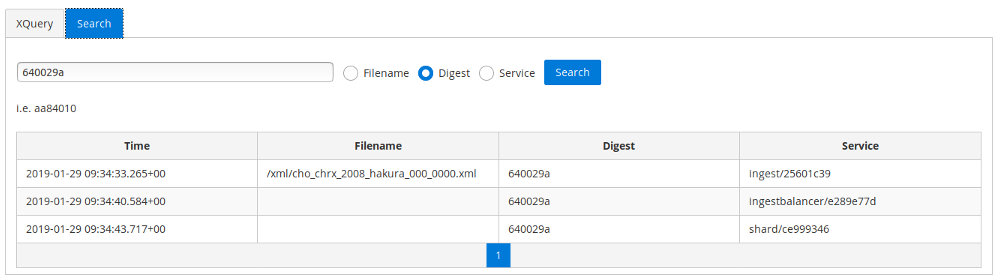
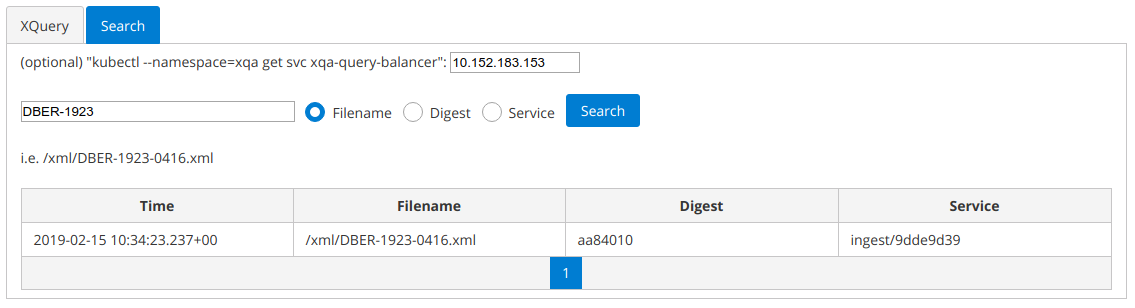
k8s support

Changed region(s): [[0.0, 0.1429, 1.0, 1.0], [0.0, 0.0, 0.994, 0.4286]]

diff --git a/src/app/search/search.component.ts b/src/app/search/search.component.ts
@@ -2,6 +2,7 @@ import { Component, OnInit } from '@angular/core';
 
 import { SearchResponse } from '../domain/search.response';
 import { SearchService } from '../service/search.service';
+import { AppComponent } from '../app.component';
 
 @Component({
   selector: 'app-search',
@@ -15,7 +16,7 @@ export class SearchComponent implements OnInit {
   error: string;
   searchResponses: SearchResponse[];
 
-  constructor(private searchService: SearchService) {
+  constructor(private searchService: SearchService, public appComponent: AppComponent) {
     this.searchValue = '';
   }
 
@@ -23,7 +24,7 @@ export class SearchComponent implements OnInit {
     console.log(this.searchSpace);
     this.error = '';
     this.searchResponses = [];
-    this.searchService.doSearch(this.searchSpace, this.searchValue)
+    this.searchService.doSearch(this.searchSpace, this.searchValue, this.appComponent.k8sIP)
       .subscribe(
         searchResponses => this.searchResponses = searchResponses['searchResponse'],
         error => this.error = error

diff --git a/src/app/xquery/xquery.component.ts b/src/app/xquery/xquery.component.ts
@@ -1,6 +1,7 @@
 import { Component, OnInit } from '@angular/core';
 
 import { XQueryService } from '../service/xquery.service';
+import { AppComponent } from '../app.component';
 
 
 @Component({
@@ -9,10 +10,11 @@ import { XQueryService } from '../service/xquery.service';
   styleUrls: ['./xquery.component.css']
 })
 export class XQueryComponent implements OnInit {
+  k8sIP: string;
   xquery: string;
   materialisedResponse: string;
 
-  constructor(private xqueryService: XQueryService) {
+  constructor(private xqueryService: XQueryService, public appComponent: AppComponent) {
   }
 
   ngOnInit() {
@@ -25,7 +27,7 @@ export class XQueryComponent implements OnInit {
   }
 
   run() {
-    this.xqueryService.doRun(this.xquery)
+    this.xqueryService.doRun(this.xquery, this.appComponent.k8sIP)
     .subscribe(
       materialisedResponse => this.materialisedResponse = materialisedResponse['xqueryResponse'],
       error => this.materialisedResponse = error

diff --git a/src/app/service/search.service.ts b/src/app/service/search.service.ts
@@ -12,8 +12,13 @@ export class SearchService extends CommonService {
     super();
   }
 
-  doSearch(searchSpace: string, searchValue: string): Observable<SearchResponse[]> {
-    const url = `${environment.endpointHost}:${environment.endpointPort}/${environment.endpointSearch}/${searchSpace}/${searchValue}`;
+  doSearch(searchSpace: string, searchValue: string, k8sIP: string): Observable<SearchResponse[]> {
+    var url;
+    if (k8sIP != "") {
+      url = `http://${k8sIP}:${environment.endpointPort}/${environment.endpointSearch}/${searchSpace}/${searchValue}`;
+    } else {
+      url = url = `${environment.endpointHost}:${environment.endpointPort}/${environment.endpointSearch}/${searchSpace}/${searchValue}`;
+    }
     console.log(url);
 
     return this.http.get<SearchResponse[]>(url)

diff --git a/src/app/service/xquery.service.ts b/src/app/service/xquery.service.ts
@@ -17,8 +17,13 @@ export class XQueryService extends CommonService {
     super();
   }
 
-  doRun(xquery: string): Observable<string> {
-    const url = `${environment.endpointHost}:${environment.endpointPort}/${environment.endpointXQuery}`;
+  doRun(xquery: string, k8sIP: string): Observable<string> {
+    var url;
+    if (k8sIP != "") {
+      url = `http://${k8sIP}:${environment.endpointPort}/${environment.endpointXQuery}`;
+    } else {
+      url = `${environment.endpointHost}:${environment.endpointPort}/${environment.endpointXQuery}`;
+    }
     console.log(url);
 
     const json = { xqueryRequest: xquery };

diff --git a/src/app/app.component.html b/src/app/app.component.html
@@ -1,5 +1,10 @@
 <p-tabView>
+
+    (optional) "kubectl --namespace=xqa get svc xqa-query-balancer": <input type="text" size="16" pInputText placeholder="CLUSTER-IP..." [(ngModel)]="k8sIP">
+    &nbsp;
+
     <p-tabPanel header="XQuery">
+        &nbsp;
         <app-xquery></app-xquery>
     </p-tabPanel>
     <p-tabPanel header="Search">

diff --git a/src/app/app.component.ts b/src/app/app.component.ts
@@ -9,4 +9,5 @@ import { TabViewModule } from 'primeng/primeng';
 })
 export class AppComponent {
   title = 'XQA';
+  k8sIP = '';
 }
